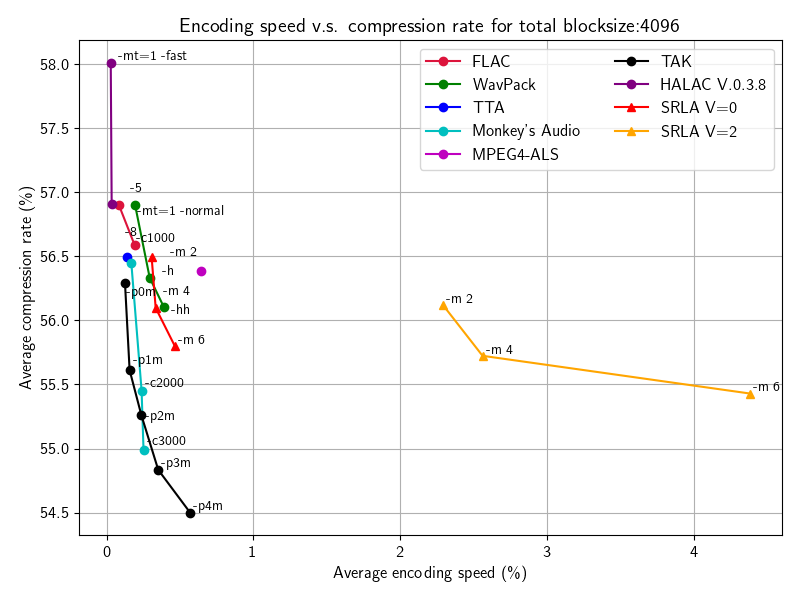
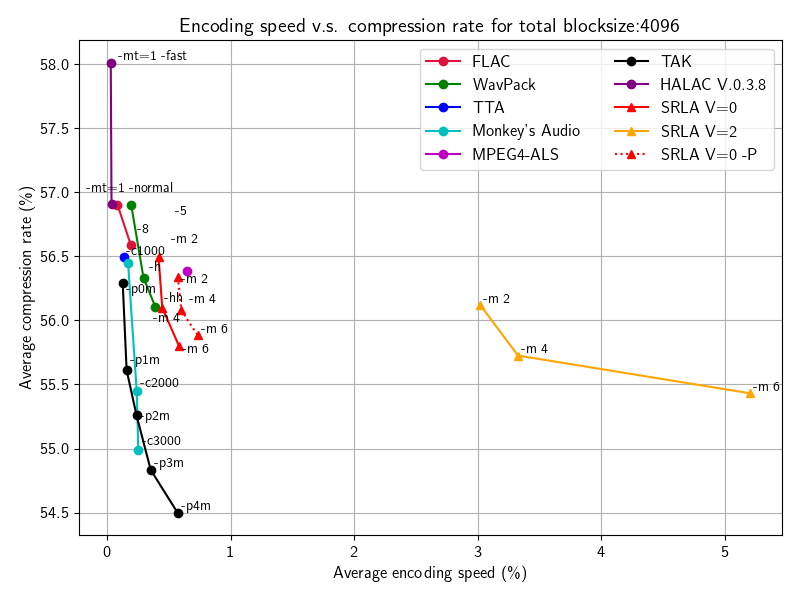
update result.

diff --git a/evaluation/plot_codec_performance_graph.py b/evaluation/plot_codec_performance_graph.py
@@ -57,7 +57,7 @@ if __name__ == "__main__":
                 line = [[], []]
                 for label in srla_codecs_df.keys():
                     if label.startswith('SRLA'):
-                        if not str(block_size) in label or not f'-V {div}' in label or _is_avoid_label(label, True):
+                        if not str(block_size) in label or not f'-V {div}' in label or '-P' in label or _is_avoid_label(label, True):
                             continue
                         option_prefix = label[len('SRLA'):label.index('V') - 1]
                         decode_time = float(srla_codecs_df.at[f'{category} mean decode time', label])
@@ -66,12 +66,25 @@ if __name__ == "__main__":
                         line[0].append(decode_time)
                         line[1].append(compress_rate)
                 plt.plot(line[0], line[1], color=COLORLIST[len(OTHER_CODEC_LABEL_PREFIXES) + div_index], label=f'SRLA V={div}', marker='^')
+            for div_index, div in enumerate([0]):
+                line = [[], []]
+                for label in srla_codecs_df.keys():
+                    if label.startswith('SRLA'):
+                        if not str(block_size) in label or not f'-V {div}' in label or not '-P' in label or _is_avoid_label(label, True):
+                            continue
+                        option_prefix = label[len('SRLA'):label.index('V') - 1]
+                        decode_time = float(srla_codecs_df.at[f'{category} mean decode time', label])
+                        compress_rate = float(srla_codecs_df.at[f'{category} mean compression rate', label])
+                        texts.append(plt.text(decode_time, compress_rate, option_prefix, size=10))
+                        line[0].append(decode_time)
+                        line[1].append(compress_rate)
+                plt.plot(line[0], line[1], color=COLORLIST[len(OTHER_CODEC_LABEL_PREFIXES) + div_index], label=f'SRLA V={div} -P', marker='^', linestyle=':')
             # AVX2 SRLA
             for div_index, div in enumerate([0, 2]):
                 line = [[], []]
                 for label in avx2_srla_codecs_df.keys():
                     if label.startswith('SRLA'):
-                        if not str(block_size) in label or not f'-V {div}' in label or _is_avoid_label(label, True):
+                        if not str(block_size) in label or not f'-V {div}' in label or '-P' in label or _is_avoid_label(label, True):
                             continue
                         option_prefix = label[len('SRLA'):label.index('V') - 1]
                         decode_time = float(avx2_srla_codecs_df.at[f'{category} mean decode time', label])
@@ -80,6 +93,19 @@ if __name__ == "__main__":
                         line[0].append(decode_time)
                         line[1].append(compress_rate)
                 plt.plot(line[0], line[1], color=COLORLIST[len(OTHER_CODEC_LABEL_PREFIXES) + div_index], label=f'AVX2 SRLA V={div}', marker='^', linestyle='--')
+            for div_index, div in enumerate([0]):
+                line = [[], []]
+                for label in avx2_srla_codecs_df.keys():
+                    if label.startswith('SRLA'):
+                        if not str(block_size) in label or not f'-V {div}' in label or not '-P' in label or _is_avoid_label(label, True):
+                            continue
+                        option_prefix = label[len('SRLA'):label.index('V') - 1]
+                        decode_time = float(srla_codecs_df.at[f'{category} mean decode time', label])
+                        compress_rate = float(srla_codecs_df.at[f'{category} mean compression rate', label])
+                        texts.append(plt.text(decode_time, compress_rate, option_prefix, size=10))
+                        line[0].append(decode_time)
+                        line[1].append(compress_rate)
+                plt.plot(line[0], line[1], color=COLORLIST[len(OTHER_CODEC_LABEL_PREFIXES) + div_index], label=f'SRLA V={div} -P', marker='^', linestyle=':')
 
             adjust_text(texts)
             plt.title(f'Decoding speed v.s. compression rate for {category} blocksize:{block_size}')
@@ -91,6 +117,7 @@ if __name__ == "__main__":
                 plt.ylim(ymin=53.5)
             plt.tight_layout()
             plt.savefig(f'decodespeed_vs_compressionrate_{block_size}_{category}.png')
+            plt.close()
 
         # エンコード速度 v.s. 圧縮率グラフ
         for category in CATEGORIES:
@@ -115,7 +142,7 @@ if __name__ == "__main__":
                 line = [[], []]
                 for label in srla_codecs_df.keys():
                     if label.startswith('SRLA'):
-                        if not str(block_size) in label or not f'-V {div}' in label or _is_avoid_label(label, True):
+                        if not str(block_size) in label or not f'-V {div}' in label or '-P' in label or _is_avoid_label(label, True):
                             continue
                         option_prefix = label[len('SRLA'):label.index('V') - 1]
                         encode_time = srla_codecs_df.at[f'{category} mean encode time', label]
@@ -124,6 +151,19 @@ if __name__ == "__main__":
                         line[0].append(encode_time)
                         line[1].append(compress_rate)
                 plt.plot(line[0], line[1], color=COLORLIST[len(OTHER_CODEC_LABEL_PREFIXES) + div_index], label=f'SRLA V={div}', marker='^')
+            for div_index, div in enumerate([0]):
+                line = [[], []]
+                for label in srla_codecs_df.keys():
+                    if label.startswith('SRLA'):
+                        if not str(block_size) in label or not f'-V {div}' in label or not '-P' in label or _is_avoid_label(label, True):
+                            continue
+                        option_prefix = label[len('SRLA'):label.index('V') - 1]
+                        decode_time = float(srla_codecs_df.at[f'{category} mean encode time', label])
+                        compress_rate = float(srla_codecs_df.at[f'{category} mean compression rate', label])
+                        texts.append(plt.text(decode_time, compress_rate, option_prefix, size=10))
+                        line[0].append(decode_time)
+                        line[1].append(compress_rate)
+                plt.plot(line[0], line[1], color=COLORLIST[len(OTHER_CODEC_LABEL_PREFIXES) + div_index], label=f'SRLA V={div} -P', marker='^', linestyle=':')
 
             adjust_text(texts)
             plt.title(f'Encoding speed v.s. compression rate for {category} blocksize:{block_size}')
@@ -133,3 +173,4 @@ if __name__ == "__main__":
             plt.grid()
             plt.tight_layout()
             plt.savefig(f'encodespeed_vs_compressionrate_{block_size}_{category}.png')
+            plt.close()
